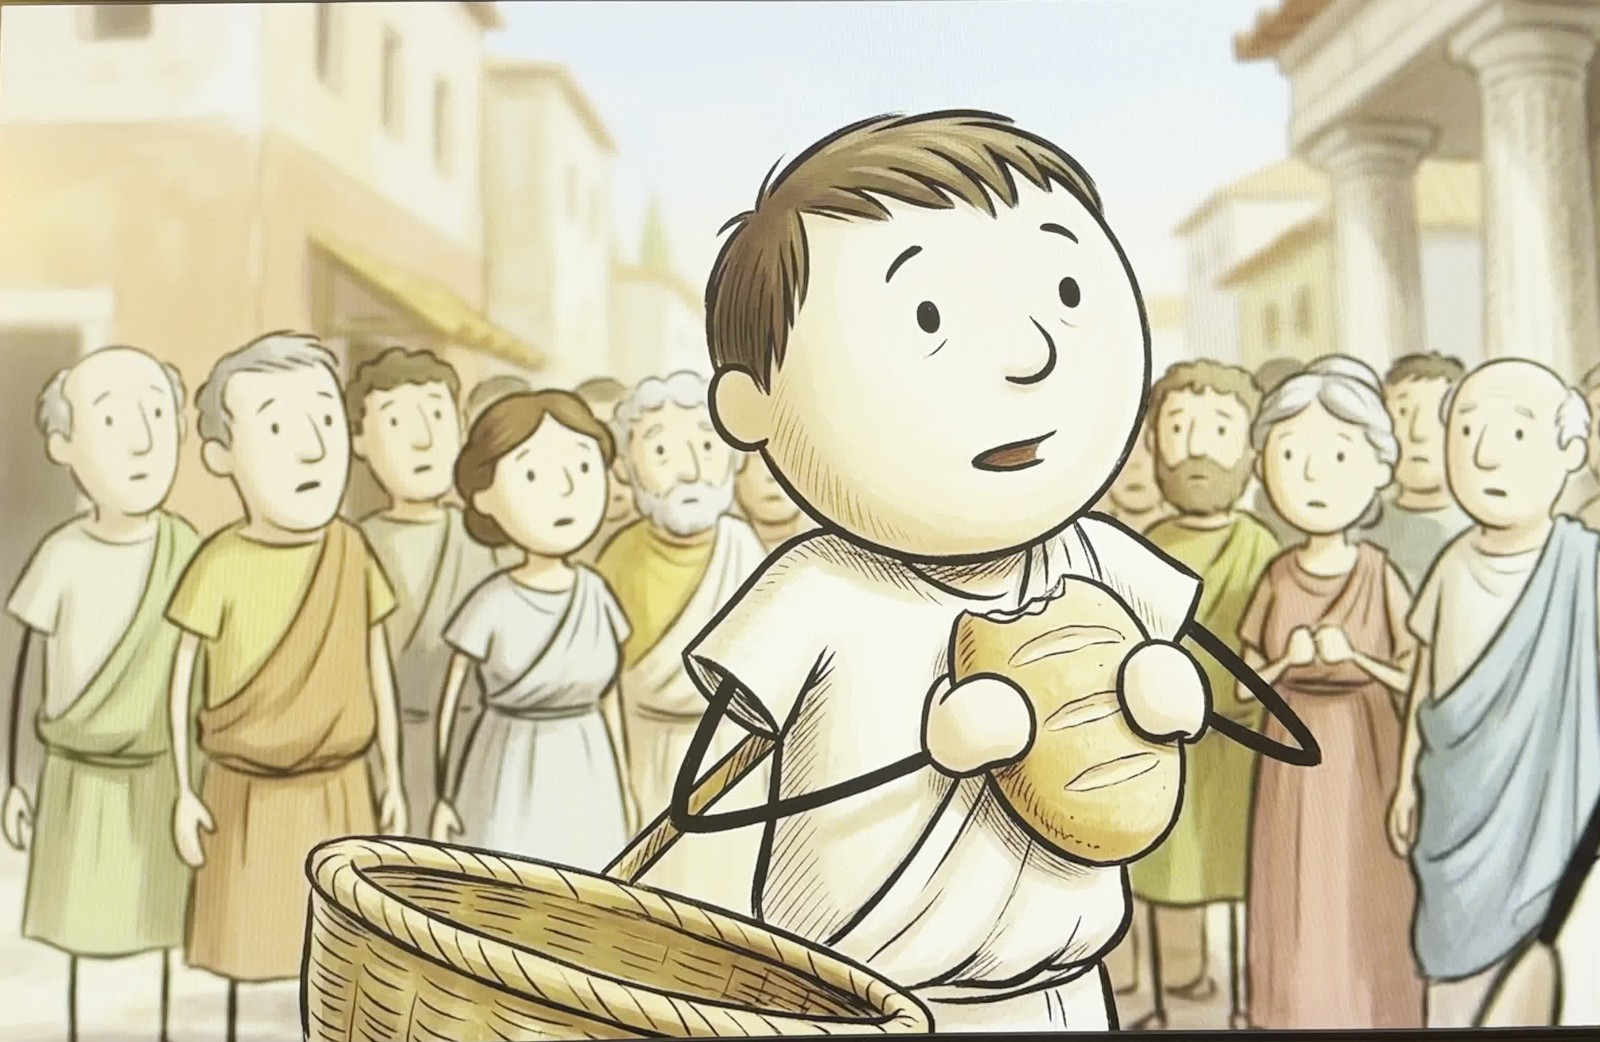
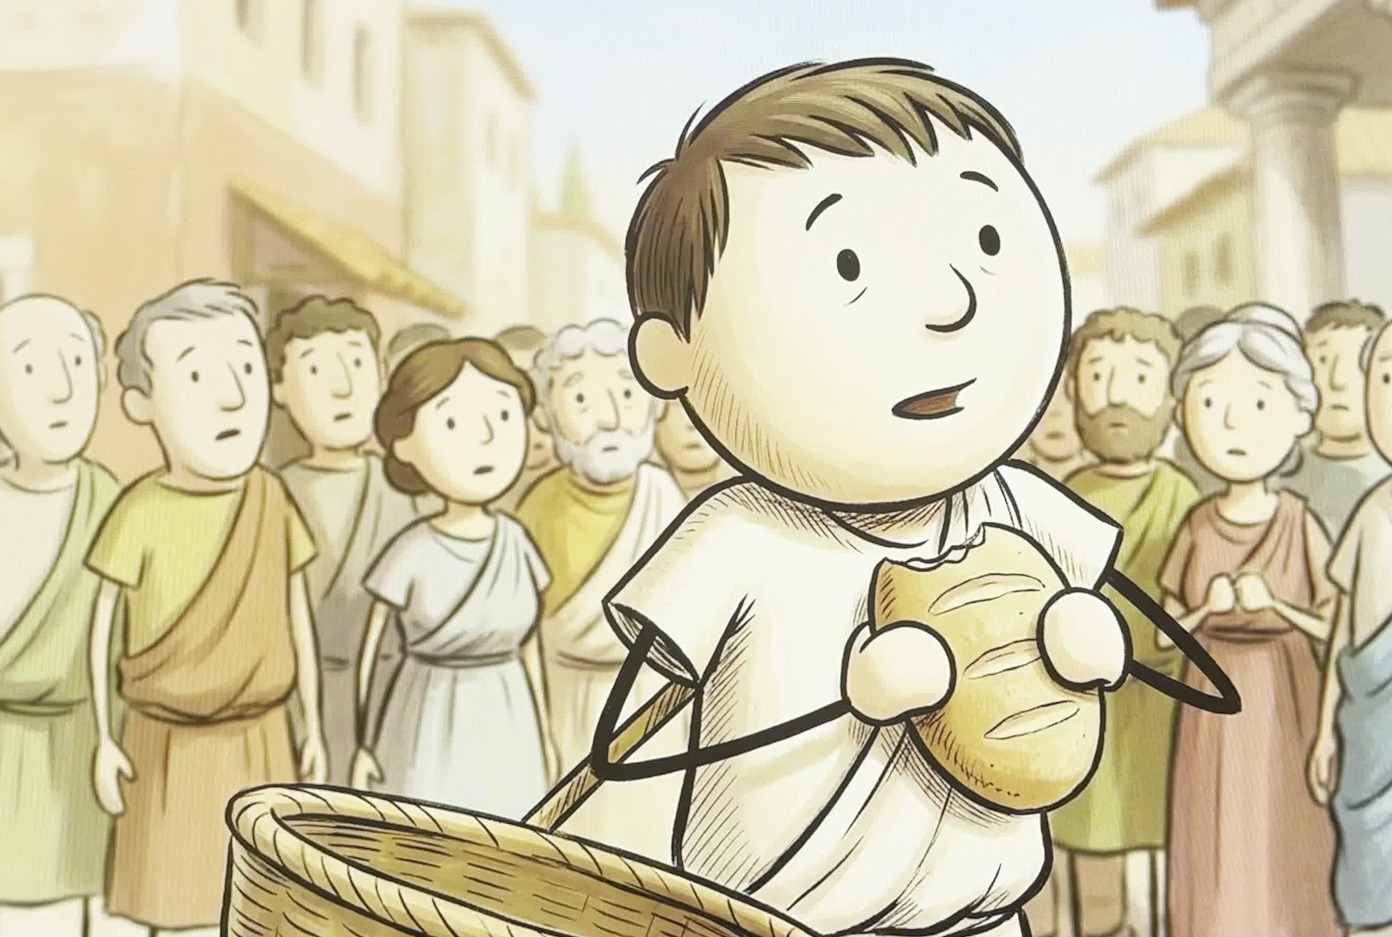
Prova presentatore in copertina (per tutti i canali) + prova stile senza cornice e scheda personaggio configurabile
Claude-Session: https://claude.ai/code/session_013ApoDmMcM7xnohpDpgQ76W

diff --git a/strumenti/prova_presentatore.py b/strumenti/prova_presentatore.py
@@ -1,0 +1,114 @@
+#!/usr/bin/env python3
+"""
+PROVA PRESENTATORE (per tutti i canali): un volto "presentatore" credibile da mettere in copertina.
+Genera N ritratti (fal, con tetto di spesa), toglie lo sfondo e li incolla su una copertina gia' uscita, in piu' posizioni,
+poi fa un foglio di confronto: copertina attuale | versioni con il presentatore.
+Ingresso: PAYLOAD = {"nome": "rich-borders", "video_id": "<id YouTube della nostra copertina>", "competitor_id": "<id facoltativo>",
+                     "persone": ["descrizione 1", "descrizione 2"], "posizioni": ["sinistra", "destra"], "max_spesa": 0.08}
+Uscita: prove_presentatore/<nome>/ (presentatore_<n>.png, copertina_<n>_<posizione>.jpg, confronto.jpg, costi.txt) salvati nel repository.
+"""
+import io, json, os, time, urllib.request
+from PIL import Image, ImageDraw, ImageFilter
+
+E = os.environ.get
+P = json.loads(E('PAYLOAD') or '{}')
+CART = os.path.join('prove_presentatore', P['nome'])
+os.makedirs(CART, exist_ok=True)
+PREZZO = 0.04   # seedream v4.5 a immagine
+MAX_SPESA = float(P.get('max_spesa', 0.08))
+SPESA = {'tot': 0.0}
+log = lambda *a: print(time.strftime('%H:%M:%S'), *a, flush=True)
+
+
+def http(url, dati=None, h=None, raw=False):
+    req = urllib.request.Request(url, data=json.dumps(dati).encode() if dati is not None else None,
+                                 headers=dict({'Content-Type': 'application/json', 'User-Agent': 'Mozilla/5.0'}, **(h or {})))
+    with urllib.request.urlopen(req, timeout=300) as r:
+        b = r.read()
+        return b if raw else json.loads(b.decode() or '{}')
+
+
+def fal(modello, dati):
+    if SPESA['tot'] + PREZZO > MAX_SPESA + 1e-9:
+        raise RuntimeError('tetto di spesa %.2f $ raggiunto' % MAX_SPESA)
+    SPESA['tot'] += PREZZO   # contata subito: fal fa pagare anche se poi qualcosa va storto
+    h = {'Authorization': 'Key ' + E('FAL_KEY', '')}
+    inv = http('https://queue.fal.run/' + modello, dati, h)
+    for _ in range(150):
+        time.sleep(4)
+        st = http(inv['status_url'], h=h)
+        if st.get('status') == 'COMPLETED':
+            return http(inv['response_url'], h=h)
+        if st.get('status') not in ('IN_QUEUE', 'IN_PROGRESS'):
+            raise RuntimeError(json.dumps(st)[:300])
+    raise RuntimeError('Fal: tempo scaduto')
+
+
+def copertina_yt(vid):
+    for q in ('maxresdefault', 'hqdefault'):
+        try:
+            return Image.open(io.BytesIO(http(f'https://i.ytimg.com/vi/{vid}/{q}.jpg', raw=True))).convert('RGB').resize((1280, 720))
+        except Exception:
+            pass
+    raise RuntimeError('copertina non scaricata: ' + vid)
+
+
+BASE = ('Photorealistic waist-up portrait photo of {p}. He looks straight into the camera with a warm, confident, trustworthy expression, '
+        'like a teacher about to explain something fascinating, slight smile, one hand slightly raised as if explaining. '
+        'Soft studio lighting, sharp focus, high detail, natural skin. Plain flat light grey background, nothing else in the image, no text.')
+
+from rembg import remove   # toglie lo sfondo (gratis, gira sul computer di GitHub)
+remove(Image.new('RGB', (64, 64), 'white'))   # scarica il modello PRIMA di spendere: se fallisce, non si paga niente
+
+nostra = copertina_yt(P['video_id'])
+nostra.save(os.path.join(CART, 'copertina_attuale.jpg'), quality=92)
+loro = None
+if P.get('competitor_id'):
+    try:
+        loro = copertina_yt(P['competitor_id']); loro.save(os.path.join(CART, 'copertina_competitor.jpg'), quality=92)
+    except Exception as e:
+        log('competitor:', e)
+
+righe = []
+for n, persona in enumerate(P['persone'], 1):
+    try:
+        r = fal('fal-ai/bytedance/seedream/v4.5/text-to-image', {'prompt': BASE.format(p=persona), 'image_size': {'width': 1536, 'height': 2048}, 'num_images': 1})
+    except Exception as e:
+        log('presentatore', n, 'non riuscito:', str(e)[:200]); continue
+    foto = Image.open(io.BytesIO(http(r['images'][0]['url'], raw=True))).convert('RGB')
+    foto.save(os.path.join(CART, 'foto_%d.jpg' % n), quality=90)
+    ritaglio = remove(foto)   # RGBA senza sfondo
+    bb = ritaglio.getbbox(); ritaglio = ritaglio.crop(bb)
+    ritaglio.save(os.path.join(CART, 'presentatore_%d.png' % n))
+    log('presentatore', n, 'pronto')
+    riga = []
+    for pos in P.get('posizioni', ['sinistra', 'destra']):
+        im = nostra.copy().convert('RGBA')
+        alto = int(720 * .92); pr = ritaglio.resize((int(ritaglio.width * alto / ritaglio.height), alto), Image.LANCZOS)
+        # contorno bianco + ombra: stacca il presentatore dalla mappa (come le copertine con persone che fanno CTR alto)
+        a = pr.split()[3]
+        bordo = a.filter(ImageFilter.MaxFilter(13))
+        ombra = Image.new('RGBA', pr.size, (0, 0, 0, 0)); ombra.putalpha(a.filter(ImageFilter.GaussianBlur(18)).point(lambda v: int(v * .6)))
+        x = 0 if pos == 'sinistra' else 1280 - pr.width
+        x = max(-int(pr.width * .08), min(x, 1280 - pr.width + int(pr.width * .08)))
+        y = 720 - alto
+        im.alpha_composite(ombra, (x + 10, y + 6))
+        bianco = Image.new('RGBA', pr.size, (255, 255, 255, 255)); bianco.putalpha(bordo)
+        im.alpha_composite(bianco, (x, y)); im.alpha_composite(pr, (x, y))
+        p = os.path.join(CART, 'copertina_%d_%s.jpg' % (n, pos))
+        im.convert('RGB').save(p, quality=92); riga.append(p)
+    righe.append(riga)
+
+# foglio di confronto: prima riga attuale (+ competitor), poi una riga per presentatore
+tw, th = 640, 360
+prima = [('attuale', nostra)] + ([('competitor', loro)] if loro else [])
+col = max([len(prima)] + [len(r) for r in righe])
+S = Image.new('RGB', (tw * col, (th + 34) * (1 + len(righe))), 'white'); d = ImageDraw.Draw(S)
+for c, (t, im) in enumerate(prima):
+    S.paste(im.resize((tw, th)), (c * tw, 34)); d.text((c * tw + 8, 10), t.upper(), fill='black')
+for r, riga in enumerate(righe, 1):
+    for c, f in enumerate(riga):
+        S.paste(Image.open(f).resize((tw, th)), (c * tw, r * (th + 34) + 34)); d.text((c * tw + 8, r * (th + 34) + 10), os.path.basename(f), fill='black')
+S.save(os.path.join(CART, 'confronto.jpg'), quality=88)
+open(os.path.join(CART, 'costi.txt'), 'w').write('spesa prova: %.2f $ (%.2f $ a ritratto)\n' % (SPESA['tot'], PREZZO))
+log('FATTO, spesa %.2f $' % SPESA['tot'])

diff --git a/strumenti/prova_stile.py b/strumenti/prova_stile.py
@@ -57,6 +57,7 @@ def immagine(mod, prompt, refs, path):
 
 
 STILE = P['stile']
+SENZA_CORNICE = ' Full-bleed illustration filling the whole image: no screen, no monitor, no TV, no frame or border around it.'
 REG_STILE = ('The reference image%s show%s ONLY the DRAWING STYLE to copy (line work, colours, shading, level of detail, how people are drawn): '
              'do NOT copy their exact scene, composition or characters, and never add any logo or text. ' % (('s', '') if len(RIF) > 1 else ('', 's')))
 log = lambda *a: print(time.strftime('%H:%M:%S'), *a, flush=True)
@@ -64,15 +65,16 @@ log = lambda *a: print(time.strftime('%H:%M:%S'), *a, flush=True)
 
 def per_modello(mod):
     pers = os.path.join(CART, 'personaggio_%s.jpg' % mod)
-    u = immagine(mod, REG_STILE + 'Draw a character design sheet of OUR main character, full body, three poses (front, walking, surprised), '
-                 'on a plain light background: ' + P['personaggio'] + '. ' + STILE, RIF, pers)
+    scheda = P.get('scheda') or ('Draw a character design sheet of OUR main character, full body, three poses (front, walking, surprised), '
+                                 'on a plain light background: ')   # 'scheda' nel payload: come disegnare la scheda del personaggio
+    u = immagine(mod, REG_STILE + scheda + P['personaggio'] + '. ' + STILE + SENZA_CORNICE, RIF, pers)
     log(mod, 'personaggio pronto')
     out = [pers]
     for i, sc in enumerate(P['scene'], 1):
         p = os.path.join(CART, '%s_%02d.jpg' % (mod, i))
         try:
             immagine(mod, 'The FIRST reference image is OUR main character: when he appears keep him identical (face, hair, clothes, proportions). '
-                     + REG_STILE.replace('reference image', 'other reference image') + 'SCENE: ' + sc + '. ' + STILE, [u] + RIF, p)
+                     + REG_STILE.replace('reference image', 'other reference image') + 'SCENE: ' + sc + '. ' + STILE + SENZA_CORNICE, [u] + RIF, p)
             out.append(p); log(mod, 'scena', i)
         except Exception as e:
             log(mod, 'scena', i, 'non riuscita:', str(e)[:200])
